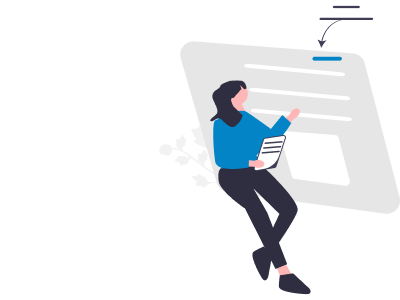
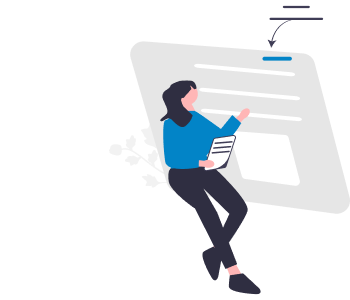
perubahan pada file cta artikel

diff --git a/src/user/layouts/Section/SectionCTAarticle.jsx b/src/user/layouts/Section/SectionCTAarticle.jsx
@@ -1,27 +1,18 @@
-import Judul from "../../components/Judul";
-import Deskripsi from "../../components/Deskripsi";
-import ButtonCta from "../../components/CTA/Button/ButtonCTA";
+import SectionCTA from "../../components/CTA/SectionCTA";
 
-const ListArticle = () => {
+const CTAarticle = () => {
   return (
-    <div className="section">
-      <section className="bg-slate-50 dark:bg-gray-900">
-        <div className="flex flex-col items-center justify-center py-8 px-4 mx-auto max-w-screen-xl xl:gap-16 md:grid md:grid-cols-2 sm:py-16 lg:px-6">
-          <div className="flex flex-col items-start mt-4 md:mt-0">
-            <Judul>Eksplorasi Beragam Informasi Melalui Artikel</Judul>
-            <Deskripsi>
-              Kumpulan berita seputar parenting untuk orang tua dalam menambah wawasan dan pengetahuan terkait pola asuh kepada anak. Temukan beragam topik mulai dari kesehatan anak, pendidikan, psikologi anak, hingga hubungan keluarga!
-            </Deskripsi>
-            <ButtonCta>Lihat Panduan Pola Asuh</ButtonCta>
-          </div>
-          <div className="flex justify-end md:mt-0">
-            <img className="w-[415px] h-auto dark:hidden" src="/assets/ArticleSection.png" alt="section-Article" />
-            <img className="w-[415px] h-auto hidden dark:block" src="/assets/ArticleSection.png" alt="section-Article" />
-          </div>
-        </div>
-      </section>
+    <div className="section-artikel">
+      <SectionCTA
+        judul1="Eksplorasi Beragam Informasi Melalui "
+        fitur="Artike "
+        deksripsi=" Kumpulan berita seputar parenting untuk orang tua dalam menambah wawasan dan pengetahuan terkait pola asuh kepada anak. Temukan beragam topik mulai dari kesehatan anak, pendidikan, psikologi anak, hingga hubungan keluarga!"
+        imgURL="/assets/Artikel.png"
+      >
+        Eksplor Artikel
+      </SectionCTA>
     </div>
   );
 };
 
-export default ListArticle;
+export default CTAarticle;
